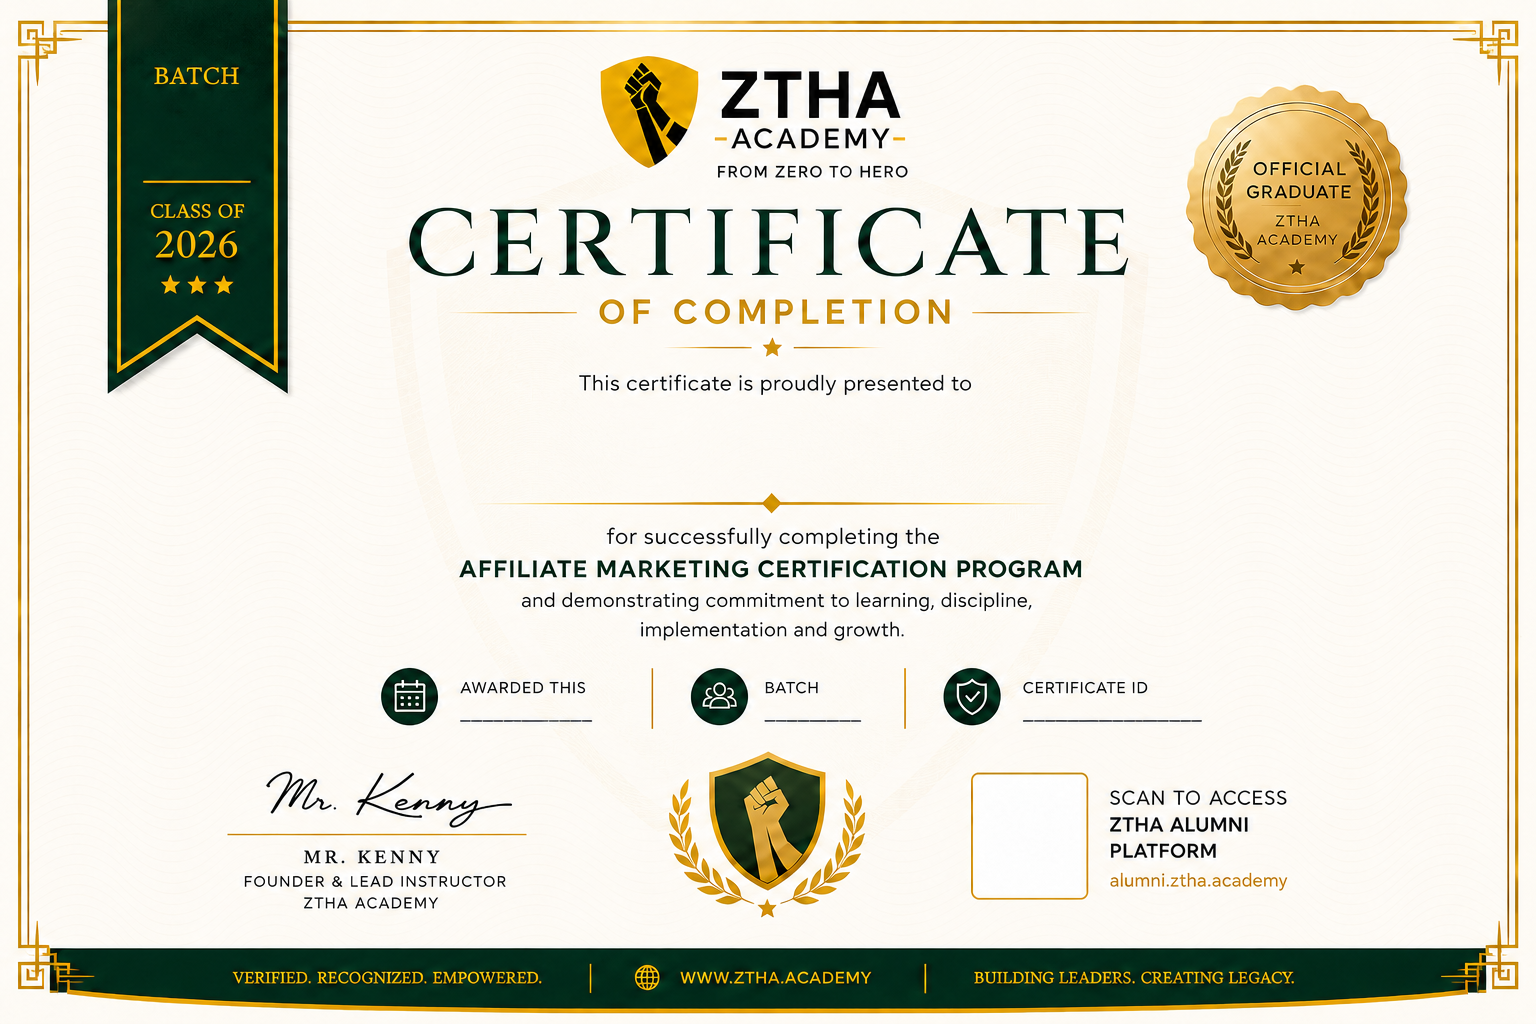
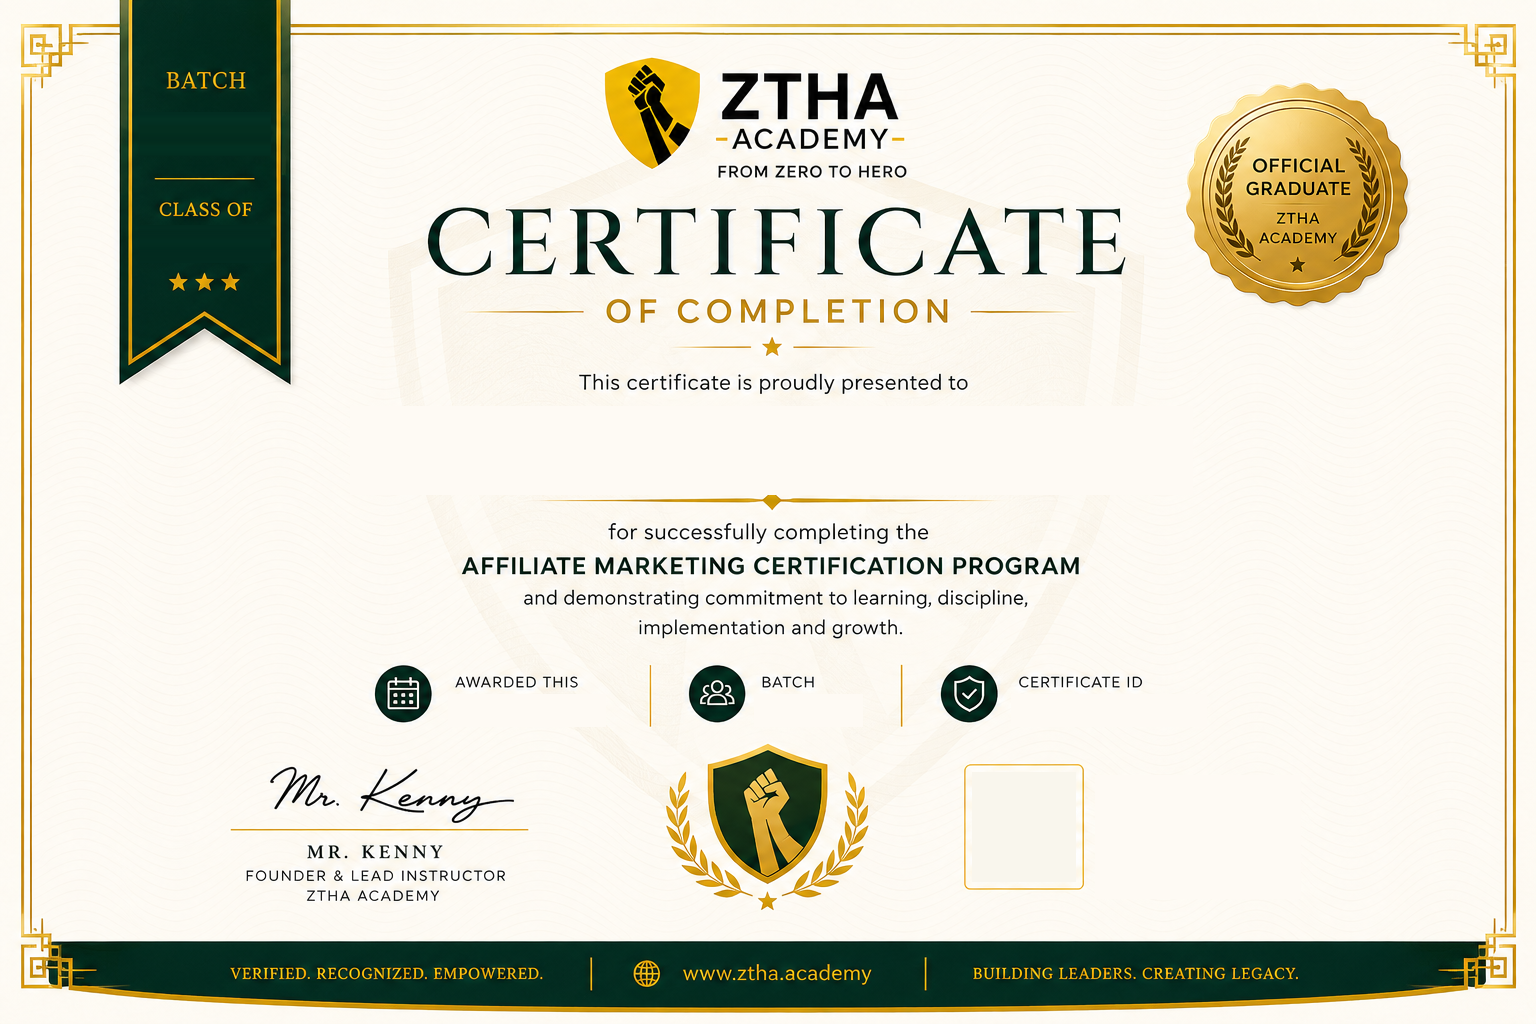
Mobile-optimize all pages and fix QR caption to match actual verify behavior
- Add viewport meta tags, 16px input font-size (prevents iOS zoom-on-focus),
  and responsive layouts across portal, verify, admin, and admin login pages
- Wrap admin results table for horizontal scroll on narrow screens
- Replace baked-in "SCAN TO ACCESS ZTHA ALUMNI PLATFORM" caption art with
  "SCAN TO VERIFY" to match what the QR code has linked to all along

diff --git a/templates/admin.html b/templates/admin.html
@@ -2,6 +2,7 @@
 <html lang="en">
 <head>
 <meta charset="UTF-8">
+<meta name="viewport" content="width=device-width, initial-scale=1">
 <title>ZTHA Certificate Generator — Admin</title>
 <style>
   :root {
@@ -9,15 +10,16 @@
     --cream: #FBF7EF; --line: #e4ddd0; --ink: #2b2b2b;
   }
   * { box-sizing: border-box; margin: 0; }
+  html { -webkit-text-size-adjust: 100%; }
   body { font-family: 'Segoe UI', system-ui, sans-serif; background: var(--cream); color: var(--ink); }
   header {
     background: var(--green); color: #fff; padding: 14px 28px;
-    display: flex; align-items: center; gap: 14px;
+    display: flex; align-items: center; gap: 14px; flex-wrap: wrap; row-gap: 8px;
   }
-  header .logo-chip { background: #fff; border-radius: 8px; padding: 5px 10px; display: flex; align-items: center; }
+  header .logo-chip { background: #fff; border-radius: 8px; padding: 5px 10px; display: flex; align-items: center; flex: none; }
   header .logo-chip img { height: 22px; display: block; }
   header h1 { font-size: 17px; font-weight: 600; letter-spacing: .5px; }
-  header .links { margin-left: auto; display: flex; gap: 16px; }
+  header .links { margin-left: auto; display: flex; gap: 16px; flex-wrap: wrap; }
   header .links a { color: #fff; opacity: .85; font-size: 13px; text-decoration: none; }
   header .links a:hover { opacity: 1; text-decoration: underline; }
   main { display: grid; grid-template-columns: 380px 1fr; gap: 22px; padding: 22px 28px; max-width: 1500px; margin: 0 auto; }
@@ -25,8 +27,8 @@
   .card h2 { font-size: 13px; text-transform: uppercase; letter-spacing: 1.5px; color: var(--green); margin-bottom: 14px; }
   label { display: block; font-size: 12px; font-weight: 600; margin: 10px 0 4px; color: #555; }
   input[type=text], input[type=number] {
-    width: 100%; padding: 8px 10px; border: 1px solid var(--line); border-radius: 7px;
-    font-size: 14px; background: #fffdf9;
+    width: 100%; padding: 10px; border: 1px solid var(--line); border-radius: 7px;
+    font-size: 16px; background: #fffdf9;
   }
   input:focus { outline: 2px solid var(--gold); border-color: transparent; }
   .row2 { display: grid; grid-template-columns: 1fr 1fr; gap: 10px; }
@@ -61,19 +63,33 @@
   .preview-head h2 { font-size: 13px; text-transform: uppercase; letter-spacing: 1.5px; color: var(--green); margin-right: auto; }
   select { padding: 7px 10px; border: 1px solid var(--line); border-radius: 7px; font-size: 13px; background: #fffdf9; max-width: 260px; }
   .results { margin-top: 16px; }
+  .table-scroll { overflow-x: auto; -webkit-overflow-scrolling: touch; }
   .results table { width: 100%; border-collapse: collapse; font-size: 13px; }
   .results th { text-align: left; color: var(--green); font-size: 11px; text-transform: uppercase;
-    letter-spacing: 1px; padding: 6px 8px; border-bottom: 2px solid var(--line); }
-  .results td { padding: 6px 8px; border-bottom: 1px solid #f2ede2; }
+    letter-spacing: 1px; padding: 6px 8px; border-bottom: 2px solid var(--line); white-space: nowrap; }
+  .results td { padding: 6px 8px; border-bottom: 1px solid #f2ede2; white-space: nowrap; }
   .results a { color: var(--green); }
   .status { font-size: 13px; margin-top: 10px; color: #666; min-height: 18px; }
   .ok { color: #1c7a44; font-weight: 600; }
   .err { color: #b54040; font-weight: 600; }
   .muted { color: #999; font-size: 12px; margin-top: 6px; }
-  .dl-row { display: flex; gap: 10px; margin-top: 12px; }
+  .dl-row { display: flex; gap: 10px; margin-top: 12px; flex-wrap: wrap; }
+  .dl-row button { flex: 1; min-width: 140px; }
   details { margin-top: 12px; }
   summary { cursor: pointer; font-size: 12.5px; color: var(--green); font-weight: 600; }
   @media (max-width: 900px) { main { grid-template-columns: 1fr; } .preview-wrap { position: static; } }
+  @media (max-width: 480px) {
+    header { padding: 12px 16px; }
+    header h1 { font-size: 15px; width: 100%; order: 1; }
+    header .links { order: 2; gap: 12px; font-size: 12px; }
+    main { padding: 16px; gap: 16px; }
+    .card { padding: 16px; }
+    .row2, .row3 { grid-template-columns: 1fr; }
+    button { padding: 13px 16px; font-size: 15px; }
+    select { max-width: 100%; }
+    .students div { flex-wrap: wrap; }
+    .students .cid { margin-left: 34px; }
+  }
 </style>
 </head>
 <body>
@@ -155,10 +171,12 @@
     </div>
     <div class="results card" id="results" style="display:none">
       <h2>Generated</h2>
-      <table>
-        <thead><tr><th>#</th><th>Name</th><th>Certificate ID</th><th>Verify code</th><th>File</th><th>Print file</th></tr></thead>
-        <tbody id="logbody"></tbody>
-      </table>
+      <div class="table-scroll">
+        <table>
+          <thead><tr><th>#</th><th>Name</th><th>Certificate ID</th><th>Verify code</th><th>File</th><th>Print file</th></tr></thead>
+          <tbody id="logbody"></tbody>
+        </table>
+      </div>
     </div>
   </section>
 </main>

diff --git a/templates/portal.html b/templates/portal.html
@@ -2,15 +2,17 @@
 <html lang="en">
 <head>
 <meta charset="UTF-8">
+<meta name="viewport" content="width=device-width, initial-scale=1">
 <title>Get Your Certificate — ZTHA Academy</title>
 <style>
   :root { --green: #153B2E; --green-dark: #0d271e; --gold: #F2AF19; --cream: #FBF7EF; --line: #e4ddd0; }
   * { box-sizing: border-box; margin: 0; }
+  html { -webkit-text-size-adjust: 100%; }
   body { font-family: 'Segoe UI', system-ui, sans-serif; background: var(--cream); color: #2b2b2b;
     min-height: 100vh; display: flex; flex-direction: column; align-items: center; }
   header { background: var(--green); color: #fff; padding: 14px 28px; width: 100%;
-    display: flex; align-items: center; gap: 14px; }
-  header .logo-chip { background: #fff; border-radius: 8px; padding: 5px 10px; display: flex; align-items: center; }
+    display: flex; align-items: center; gap: 14px; flex-wrap: wrap; row-gap: 6px; }
+  header .logo-chip { background: #fff; border-radius: 8px; padding: 5px 10px; display: flex; align-items: center; flex: none; }
   header .logo-chip img { height: 22px; display: block; }
   header h1 { font-size: 17px; font-weight: 600; }
   header a { margin-left: auto; color: #fff; opacity: .85; font-size: 13px; text-decoration: none; }
@@ -20,10 +22,10 @@
   h2 { font-size: 19px; color: var(--green); margin-bottom: 6px; }
   p.sub { font-size: 13.5px; color: #777; margin-bottom: 20px; }
   label { display: block; font-size: 12px; font-weight: 600; margin: 14px 0 5px; color: #555; }
-  input { width: 100%; padding: 10px 12px; border: 1px solid var(--line); border-radius: 8px; font-size: 14px; }
+  input { width: 100%; padding: 12px; border: 1px solid var(--line); border-radius: 8px; font-size: 16px; }
   input:focus { outline: 2px solid var(--gold); border-color: transparent; }
-  button { width: 100%; margin-top: 18px; border: 0; border-radius: 8px; padding: 12px;
-    background: var(--green); color: #fff; font-size: 14px; font-weight: 600; cursor: pointer; }
+  button { width: 100%; margin-top: 18px; border: 0; border-radius: 8px; padding: 14px 12px;
+    background: var(--green); color: #fff; font-size: 15px; font-weight: 600; cursor: pointer; }
   button:hover { background: var(--green-dark); }
   button:disabled { background: #9db3aa; }
   .btn-gold { background: var(--gold); color: var(--green); }
@@ -40,6 +42,15 @@
   .spinner-note { font-size: 12.5px; color: #999; margin-top: 8px; text-align: center; }
   .muted { font-size: 12px; color: #999; }
   footer { font-size: 12px; color: #999; margin-top: 22px; text-align: center; max-width: 560px; padding: 0 20px 30px; }
+  @media (max-width: 480px) {
+    header { padding: 12px 16px; }
+    header h1 { font-size: 15px; }
+    main { padding: 20px 14px; }
+    .card { padding: 20px 18px; }
+    h2 { font-size: 17px; }
+    dl { grid-template-columns: 1fr; gap: 2px 0; }
+    dl dt { margin-top: 6px; }
+  }
 </style>
 </head>
 <body>

diff --git a/templates/verify.html b/templates/verify.html
@@ -2,15 +2,17 @@
 <html lang="en">
 <head>
 <meta charset="UTF-8">
+<meta name="viewport" content="width=device-width, initial-scale=1">
 <title>Verify a ZTHA Certificate</title>
 <style>
   :root { --green: #153B2E; --green-dark: #0d271e; --gold: #F2AF19; --cream: #FBF7EF; --line: #e4ddd0; }
   * { box-sizing: border-box; margin: 0; }
+  html { -webkit-text-size-adjust: 100%; }
   body { font-family: 'Segoe UI', system-ui, sans-serif; background: var(--cream); color: #2b2b2b;
     min-height: 100vh; display: flex; flex-direction: column; align-items: center; }
   header { background: var(--green); color: #fff; padding: 14px 28px; width: 100%;
     display: flex; align-items: center; gap: 14px; }
-  header .logo-chip { background: #fff; border-radius: 8px; padding: 5px 10px; display: flex; align-items: center; }
+  header .logo-chip { background: #fff; border-radius: 8px; padding: 5px 10px; display: flex; align-items: center; flex: none; }
   header .logo-chip img { height: 22px; display: block; }
   header h1 { font-size: 17px; font-weight: 600; }
   main { max-width: 460px; width: 100%; padding: 40px 20px; }
@@ -18,11 +20,11 @@
   h2 { font-size: 18px; color: var(--green); margin-bottom: 6px; }
   p.sub { font-size: 13px; color: #777; margin-bottom: 20px; }
   label { display: block; font-size: 12px; font-weight: 600; margin: 14px 0 5px; color: #555; }
-  input { width: 100%; padding: 10px 12px; border: 1px solid var(--line); border-radius: 8px;
-    font-size: 14px; font-family: Consolas, monospace; text-transform: uppercase; background: #fffdf9; }
+  input { width: 100%; padding: 12px; border: 1px solid var(--line); border-radius: 8px;
+    font-size: 16px; font-family: Consolas, monospace; text-transform: uppercase; background: #fffdf9; }
   input:focus { outline: 2px solid var(--gold); border-color: transparent; }
-  button { width: 100%; margin-top: 18px; border: 0; border-radius: 8px; padding: 12px;
-    background: var(--green); color: #fff; font-size: 14px; font-weight: 600; cursor: pointer; }
+  button { width: 100%; margin-top: 18px; border: 0; border-radius: 8px; padding: 14px 12px;
+    background: var(--green); color: #fff; font-size: 15px; font-weight: 600; cursor: pointer; }
   button:hover { background: var(--green-dark); }
   button:disabled { background: #9db3aa; }
   .result { margin-top: 20px; padding: 16px; border-radius: 10px; font-size: 14px; display: none; }
@@ -35,6 +37,13 @@
   .result dt { color: #666; }
   .result dt::after { content: ":"; }
   footer { font-size: 12px; color: #999; margin-top: 22px; text-align: center; }
+  @media (max-width: 480px) {
+    header { padding: 12px 16px; }
+    main { padding: 24px 14px; }
+    .card { padding: 20px 18px; }
+    .result dl { grid-template-columns: 1fr; gap: 2px 0; }
+    .result dl dt { margin-top: 6px; }
+  }
 </style>
 </head>
 <body>

diff --git a/templates/admin_login.html b/templates/admin_login.html
@@ -2,26 +2,29 @@
 <html lang="en">
 <head>
 <meta charset="UTF-8">
+<meta name="viewport" content="width=device-width, initial-scale=1">
 <title>Admin Login — ZTHA Certificate Generator</title>
 <style>
   :root { --green: #153B2E; --green-dark: #0d271e; --gold: #F2AF19; --cream: #FBF7EF; --line: #e4ddd0; }
   * { box-sizing: border-box; margin: 0; }
+  html { -webkit-text-size-adjust: 100%; }
   body { font-family: 'Segoe UI', system-ui, sans-serif; background: var(--cream); color: #2b2b2b;
-    min-height: 100vh; display: flex; align-items: center; justify-content: center; }
+    min-height: 100vh; display: flex; align-items: center; justify-content: center; padding: 20px; }
   .card { background: #fff; border: 1px solid var(--line); border-radius: 14px; padding: 32px;
     width: 100%; max-width: 360px; }
   .logo { height: 28px; display: block; margin-bottom: 16px; }
   h2 { font-size: 18px; color: var(--green); margin-bottom: 6px; }
   p.sub { font-size: 13px; color: #777; margin-bottom: 20px; }
   label { display: block; font-size: 12px; font-weight: 600; margin-bottom: 5px; color: #555; }
-  input { width: 100%; padding: 10px 12px; border: 1px solid var(--line); border-radius: 8px; font-size: 14px; }
+  input { width: 100%; padding: 12px; border: 1px solid var(--line); border-radius: 8px; font-size: 16px; }
   input:focus { outline: 2px solid var(--gold); border-color: transparent; }
-  button { width: 100%; margin-top: 16px; border: 0; border-radius: 8px; padding: 12px;
-    background: var(--green); color: #fff; font-size: 14px; font-weight: 600; cursor: pointer; }
+  button { width: 100%; margin-top: 16px; border: 0; border-radius: 8px; padding: 14px 12px;
+    background: var(--green); color: #fff; font-size: 15px; font-weight: 600; cursor: pointer; }
   button:hover { background: var(--green-dark); }
   .error { background: #fdeeee; border: 1px solid #eab9b9; color: #b54040; border-radius: 8px;
     padding: 10px 12px; font-size: 13px; margin-bottom: 14px; }
   .back { display: block; text-align: center; margin-top: 16px; font-size: 13px; color: var(--green); }
+  @media (max-width: 400px) { .card { padding: 24px 20px; } }
 </style>
 </head>
 <body>

diff --git a/generate_certificates.py b/generate_certificates.py
@@ -96,6 +96,17 @@ CONFIG = {
     "qr_dark":        (17, 17, 17),  # module color
     "qr_light":       (255, 255, 255),
 
+    # ---- QR caption (replaces the template's baked-in "SCAN TO ACCESS ZTHA
+    # ALUMNI PLATFORM / alumni.ztha.academy" text, which no longer matches what
+    # the QR actually does — it now links straight to the verify page) --------
+    "qr_caption_title":       "SCAN TO VERIFY",
+    "qr_caption_subtitle":    "Confirms authenticity instantly",
+    "qr_caption_pos":         (1110, 826),   # (left x, baseline y)
+    "qr_caption_subtitle_pos": (1110, 852),
+    "qr_caption_title_size":  20,
+    "qr_caption_subtitle_size": 15,
+    "qr_caption_color":       (34, 34, 34),
+
     # ---- verification code caption (clean gap between QR box and footer) -----
     "verify_code_pos":   (1029, 924),   # (center x, baseline y)
     "verify_code_font_size": 15,
@@ -107,6 +118,7 @@ CONFIG = {
         (448, 694, 605, 726),              # {{ISSUE_DATE}}
         (754, 694, 862, 726),              # {{BATCH}} bottom row
         (1011, 694, 1206, 726),            # {{CERTIFICATE_ID}}
+        (1095, 775, 1300, 898),            # old "SCAN TO ACCESS ZTHA ALUMNI PLATFORM" caption
     ],
     "cream_sample": (350, 470),            # where to sample the cream color
     "erase_ribbon": [                      # per-row green fill (band has a gradient)
@@ -275,8 +287,10 @@ def make_qr(url, cfg):
 
 _SCALED_SCALAR_KEYS = ["name_center_x", "name_center_y", "name_max_width", "name_font_size",
                       "name_min_size", "ribbon_center_x", "ribbon_batch_y", "ribbon_font_size",
-                      "info_font_size", "qr_size", "verify_code_font_size"]
-_SCALED_TUPLE_KEYS = ["qr_box_center", "verify_code_pos", "issue_date_pos", "batch_pos", "cert_id_pos"]
+                      "info_font_size", "qr_size", "verify_code_font_size",
+                      "qr_caption_title_size", "qr_caption_subtitle_size"]
+_SCALED_TUPLE_KEYS = ["qr_box_center", "verify_code_pos", "issue_date_pos", "batch_pos", "cert_id_pos",
+                      "qr_caption_pos", "qr_caption_subtitle_pos"]
 
 
 def scaled_cfg(cfg, scale):
@@ -308,6 +322,8 @@ def build_assets(cfg, scale=1):
         "info_font": load_font(cfg["font_sans"], cfg["info_font_size"]),
         "verify_font": load_font(cfg["font_sans"], cfg["verify_code_font_size"]),
         "ribbon_font": load_font(cfg["font_serif"], cfg["ribbon_font_size"], cfg["ribbon_weight"]),
+        "qr_caption_font": load_font(cfg["font_sans"], cfg["qr_caption_title_size"]),
+        "qr_caption_sub_font": load_font(cfg["font_sans"], cfg["qr_caption_subtitle_size"]),
     }
 
 
@@ -349,6 +365,13 @@ def render_one(name, cert_id, cfg, assets):
     vx, vy = cfg["verify_code_pos"]
     draw.text((vx, vy), f"Verify: {code}", font=assets["verify_font"],
               fill=cfg["verify_code_color"], anchor="ms")
+
+    tx, ty = cfg["qr_caption_pos"]
+    draw.text((tx, ty), cfg["qr_caption_title"], font=assets["qr_caption_font"],
+              fill=cfg["qr_caption_color"], anchor="ls")
+    sx, sy = cfg["qr_caption_subtitle_pos"]
+    draw.text((sx, sy), cfg["qr_caption_subtitle"], font=assets["qr_caption_sub_font"],
+              fill=cfg["ribbon_color"], anchor="ls")
     return im, code
 
 
